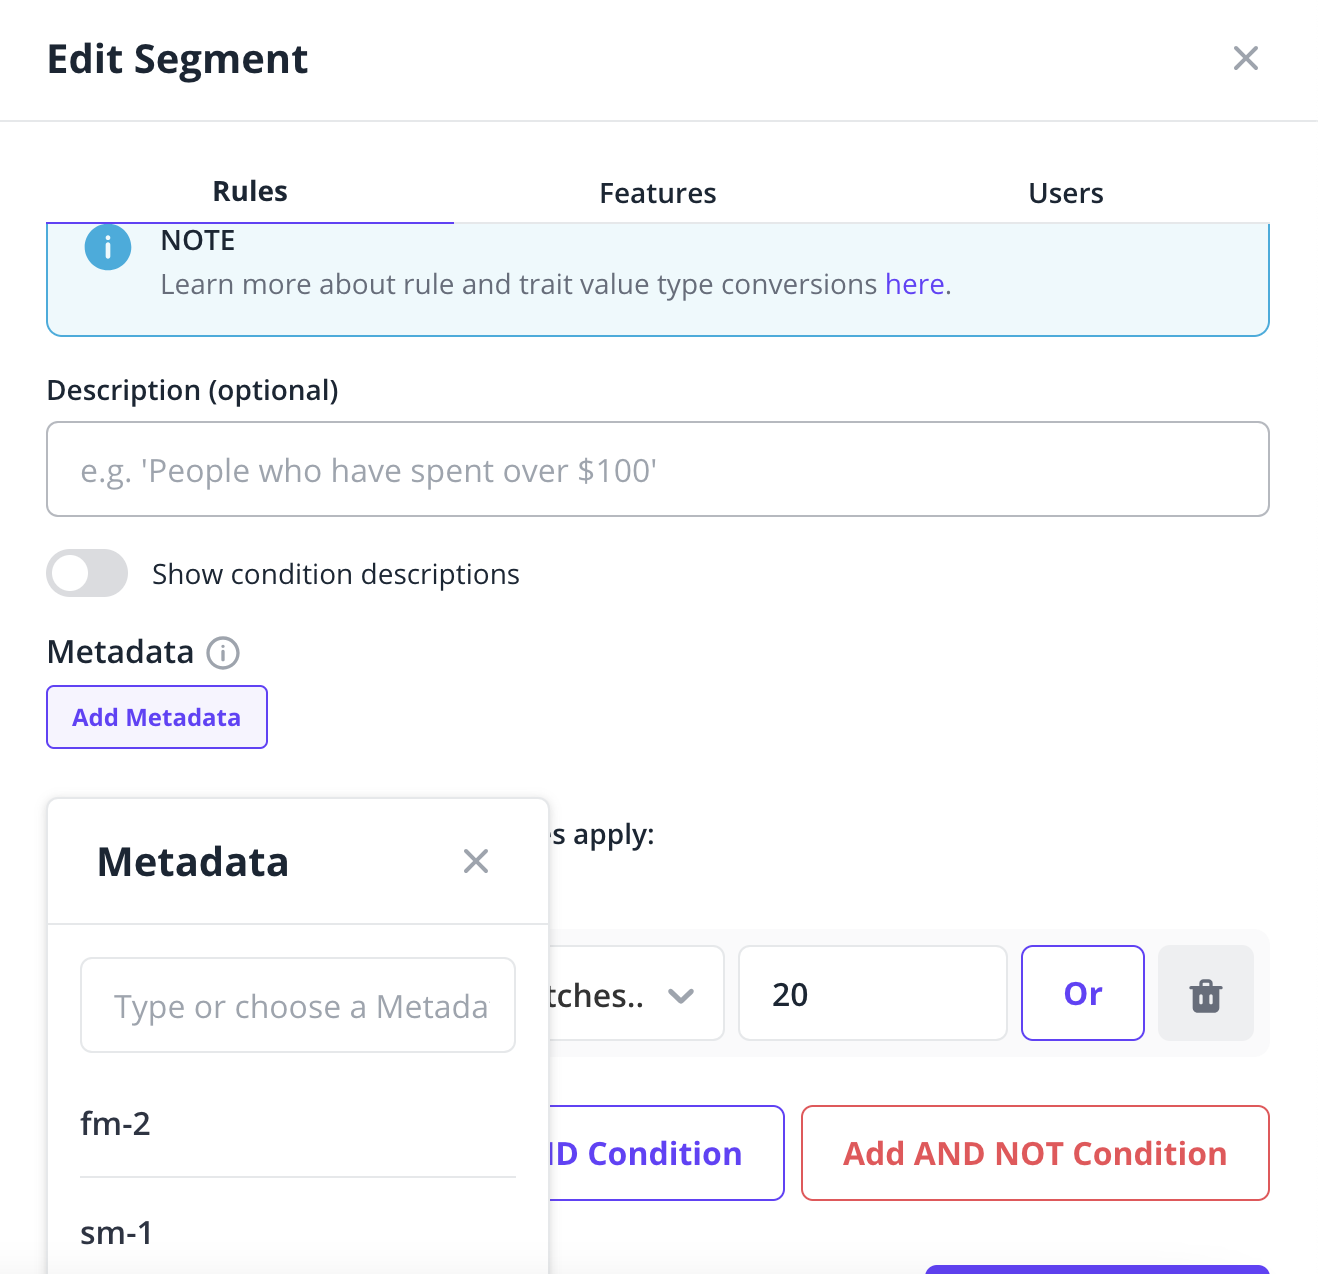
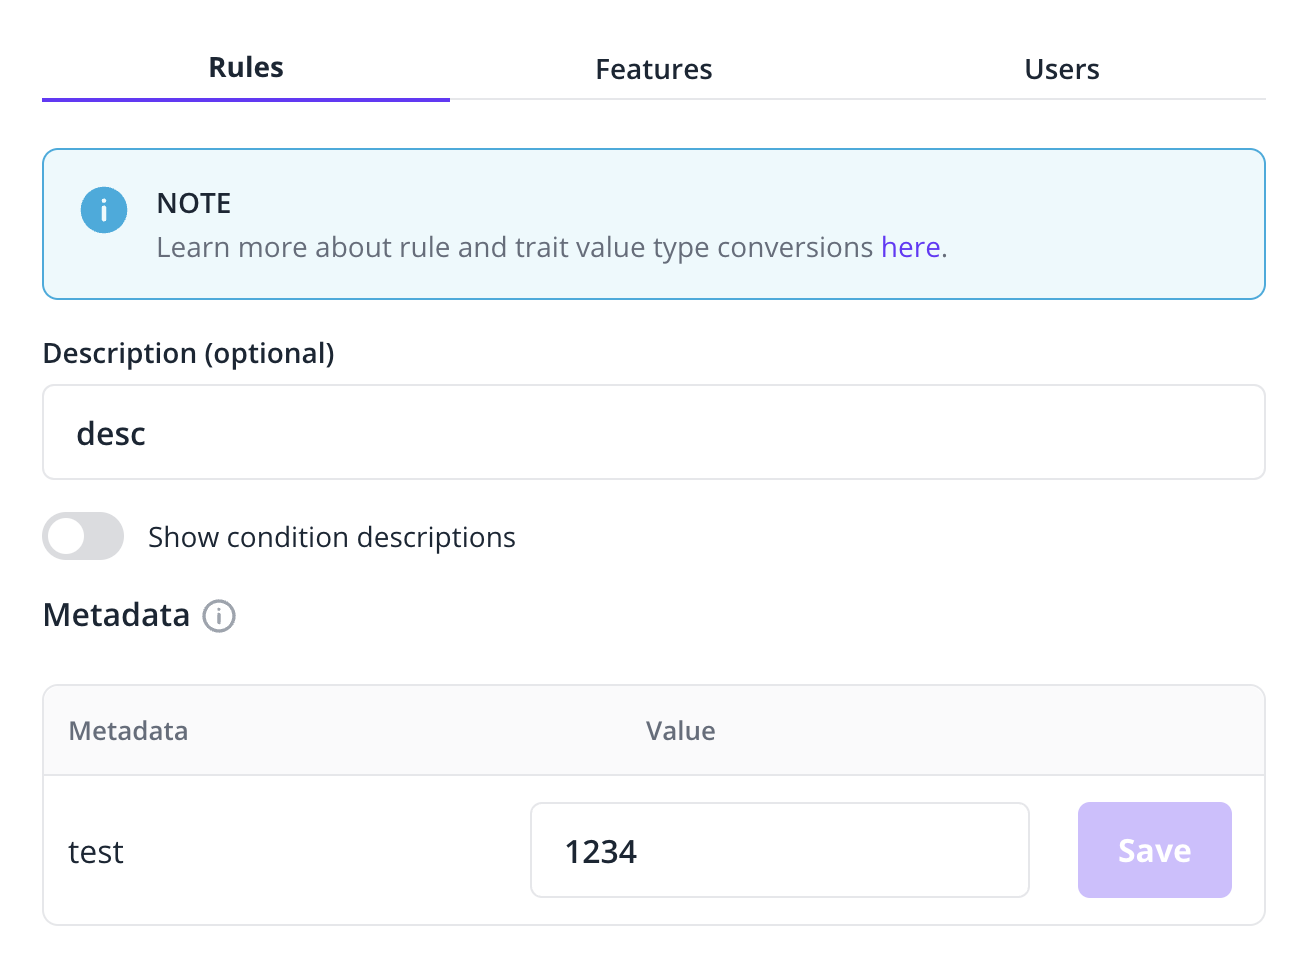
Update Docs and UI

diff --git a/frontend/web/components/metadata/AddMetadataToEntity.tsx b/frontend/web/components/metadata/AddMetadataToEntity.tsx
@@ -20,6 +20,7 @@ export type CustomMetadataField = MetadataField & {
   isRequiredFor: boolean
   model_field?: string | number
   metadataEntity?: boolean
+  field_value?: string
 }
 
 type CustomMetadata = (Metadata & CustomMetadataField) | null
@@ -238,26 +239,35 @@ const AddMetadataToEntity: FC<AddMetadataToEntityType> = ({
           }}
         />
         {entity === 'environment' && (
-          <Button
-            theme='primary'
-            onClick={() => {
-              updateEnvironment({
-                body: {
-                  metadata: metadataFieldsAssociatedtoEntity
-                    ?.filter((m) => m.metadataEntity)
-                    .map((i) => {
-                      const { metadataModelFieldId, ...rest } = i
-                      return { model_field: metadataModelFieldId, ...rest }
-                    }),
-                  name: envName!,
-                  project: parseInt(`${projectId}`),
-                },
-                id: entityId,
-              })
-            }}
-          >
-            Save Metadata
-          </Button>
+          <div className='text-right'>
+            <Button
+              theme='primary'
+              className='mt-2'
+              onClick={() => {
+                updateEnvironment({
+                  body: {
+                    metadata: metadataFieldsAssociatedtoEntity
+                      ?.filter((m) => m.metadataEntity)
+                      .map((i) => {
+                        const { field_value, ...rest } = i
+                        return {
+                          field_value,
+                          model_field: i.metadataModelFieldId,
+                          ...rest,
+                        }
+                      }) as Metadata[],
+                    name: envName!,
+                    project: parseInt(`${projectId}`),
+                  },
+                  id: entityId,
+                }).then(() => {
+                  toast('Environment Metadata Updated')
+                })
+              }}
+            >
+              Save Metadata
+            </Button>
+          </div>
         )}
       </FormGroup>
     </>

diff --git a/frontend/web/components/metadata/MetadataPage.tsx b/frontend/web/components/metadata/MetadataPage.tsx
@@ -117,7 +117,7 @@ const MetadataPage: FC<MetadataPageType> = ({ organisationId, projectId }) => {
         >
           {'Create or Update the Metadata Fields Project'}
         </Tooltip>
-        <Button onClick={() => createMetadataField()}>
+        <Button className='mt-2' onClick={() => createMetadataField()}>
           {'Create Metadata Field'}
         </Button>
       </Row>

diff --git a/docs/docs/basic-features/managing-segments.md b/docs/docs/basic-features/managing-segments.md
@@ -301,9 +301,8 @@ Metadata.
 
 You can add the Metadata value in the Feature Setting Tab.
 
-When creating or updating a segment, you can add Metadata if you was created Metadata Fields in Project Settings ->
-Metadata. fields. You can add the Metadata value in the Settings Setting Tab.
+When creating or updating a segment, you can add Metadata. You can add the Metadata value in the Settings Setting Tab.
 
-Then, add it using the "Add Metadata" button within the segment.
+If you have metadata for features, it will create a list of fields that can be filled, saved, and will be stored with the feature's save flag.
 
 ![Image](/img/metadata/metadata-segment-1.png)

diff --git a/docs/docs/system-administration/environment-settings.md b/docs/docs/system-administration/environment-settings.md
@@ -22,6 +22,6 @@ split operator) when evaluated against the remote API. Evaluations in local eval
 When creating or updating a segment, you can enhance its information by adding previously created and enabled metadata
 fields. To create and enable this you can do it in the metadata tab on the project settings page.
 
-Then, add it using the "Add Metadata" button in the metadata tab inside environemt settings.
+If you have metadata for features, it will create a list of fields that can be filled, saved, and will be stored with the feature's save flag.
 
 ![Image](/img/metadata/metadata-environment.png)

diff --git a/docs/docs/system-administration/metadata/metadata.md b/docs/docs/system-administration/metadata/metadata.md
@@ -21,6 +21,8 @@ Here you'll also need to define whether it's optional or required.
 - **Optional**: You may or may not add Metadata to your Entities.
 - **Required**: You won't be able to update or create an Entity within your Project unless you include this Metadata.
 
+![Image](/img/metadata/metadata-fields.png)
+
 ### Types of Metadata Field
 
 Metadata Field supports five primary types of metadata values, each serving distinct purposes:

diff --git a/docs/docs/basic-features/managing-features.md b/docs/docs/basic-features/managing-features.md
@@ -106,6 +106,6 @@ Metadata.
 
 You can add the Metadata in the Feature Setting Tab.
 
-Then, add it using the "Add Metadata" button within the feature.
+If you have metadata for features, a list of fields that can be filled, saved, and will be stored with the feature's save flag will be displayed.
 
 ![Image](/img/metadata/metadata-feature-1.png)
